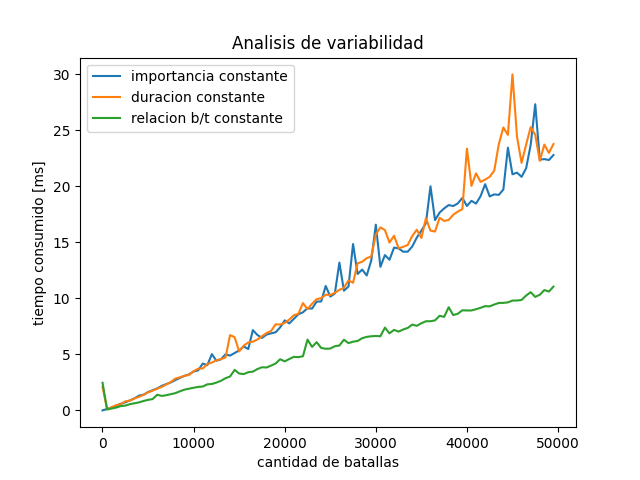
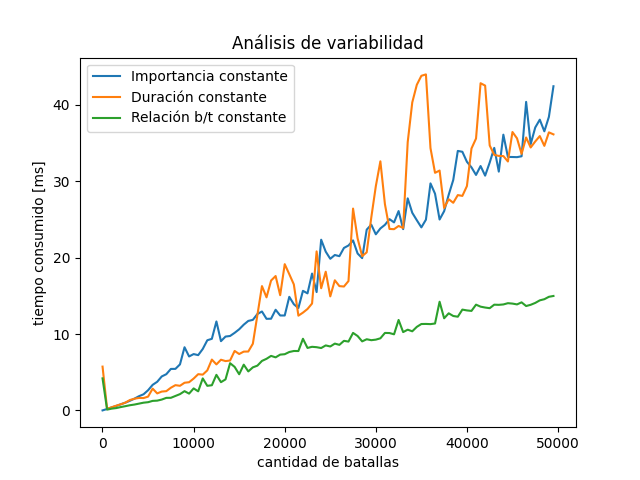
corrijo detalles 2do grafico

diff --git a/plot_variabilidad.py b/plot_variabilidad.py
@@ -1,6 +1,6 @@
 from time import perf_counter
 from random import uniform
-from main import get_orden_optimo, calcular_coeficiente
+from main import get_orden_optimo, calcular_coeficiente_de_impacto
 import matplotlib.pyplot as plt
 
 tamanos_datos = [x for x in range(10, 50000, 500)]
@@ -10,20 +10,20 @@ tiempos_relacion_cte = []
 
 for n in tamanos_datos:
     batallas = [(uniform(1, 1000), 1) for _ in range(n)]
-    start = perf_counter()
+    inicio = perf_counter()
     solucion = get_orden_optimo(batallas)
-    calcular_coeficiente(solucion)
+    calcular_coeficiente_de_impacto(solucion)
     fin = perf_counter()
-    tiempo_ms = (fin - start)*1000
+    tiempo_ms = (fin - inicio)*1000
     tiempos_importancia_cte.append(tiempo_ms)
 
 for n in tamanos_datos:
     batallas = [(1, uniform(0, 1000)) for _ in range(n)]
-    start = perf_counter()
+    inicio = perf_counter()
     solucion = get_orden_optimo(batallas)
-    calcular_coeficiente(solucion)
+    calcular_coeficiente_de_impacto(solucion)
     fin = perf_counter()
-    tiempo_ms = (fin - start)*1000
+    tiempo_ms = (fin - inicio)*1000
     tiempos_duracion_cte.append(tiempo_ms)
 
 for n in tamanos_datos:
@@ -33,19 +33,19 @@ for n in tamanos_datos:
         b = 2*t
         batallas.append((t, b))
 
-    start = perf_counter()
+    inicio = perf_counter()
     solucion = get_orden_optimo(batallas)
-    calcular_coeficiente(solucion)
+    calcular_coeficiente_de_impacto(solucion)
     fin = perf_counter()
-    tiempo_ms = (fin - start)*1000
+    tiempo_ms = (fin - inicio)*1000
     tiempos_relacion_cte.append(tiempo_ms)
 
-plt.title("Analisis de variabilidad")
+plt.title("Análisis de variabilidad")
 plt.xlabel("cantidad de batallas")
 plt.ylabel("tiempo consumido [ms]")
-plt.plot(tamanos_datos, tiempos_importancia_cte, label='importancia constante')
-plt.plot(tamanos_datos, tiempos_duracion_cte, label='duracion constante')
-plt.plot(tamanos_datos, tiempos_relacion_cte, label='relacion b/t constante')
+plt.plot(tamanos_datos, tiempos_importancia_cte, label='Importancia constante')
+plt.plot(tamanos_datos, tiempos_duracion_cte, label='Duración constante')
+plt.plot(tamanos_datos, tiempos_relacion_cte, label='Relación b/t constante')
 plt.legend()
 plt.savefig("img/grafico_variabilidad.png")
 plt.show()

diff --git a/plot.py b/plot.py
@@ -8,11 +8,11 @@ tiempos_ejecucion = []
 
 for n in tamanos_datos:
     batallas = [(uniform(1, 1000), uniform(0, 1000)) for _ in range(n)]
-    start = perf_counter()
+    inicio = perf_counter()
     solucion = get_orden_optimo(batallas)
     calcular_coeficiente_de_impacto(solucion)
     fin = perf_counter()
-    tiempo_ms = (fin - start)*1000
+    tiempo_ms = (fin - inicio)*1000
     tiempos_ejecucion.append(tiempo_ms)
 
 plt.title("Tiempo de ejecución en función del tamaño del arreglo")

diff --git a/informe.md b/informe.md
@@ -14,6 +14,7 @@
     - [Misma relación $b\_{i}/t\_{i}$ para toda batalla $i$](#misma-relación-b_it_i-para-toda-batalla-i)
 - [Casos de prueba](#casos-de-prueba)
 - [Mediciones](#mediciones)
+- [Conclusiones](#conclusiones)
 
 
 # Objetivo
@@ -229,8 +230,11 @@ Para la primer medición se fueron generando muestras aleatorias de tamaño $n$,
 
 Si bien es no es tan sencillo de notar, se puede observar que el gráfico no tiene una tendencia lineal, en especial al probar con muestras más grandes.
 
-Para el siguiente gráfico se repitió la experiencia anterior para los casos mencionados en el [análisis de variabilidad](#análisis-variabilidad-de-y).
+Para el siguiente gráfico se repitió la experiencia anterior para los casos mencionados en el [análisis de variabilidad de $b_{i}$ y $t_{i}$](#análisis-variabilidad-de-y).
 
 ![Gráfico variabilidad](img/grafico_variabilidad.png "Gráfico variabilidad")
 
 Como se puede ver en este gráfico, la complejidad del algoritmo no tiene ningún cambio notable al tratar casos donde se mantiene constante una variable del problema. Sin embargo, se puede notar a simple vista la mejora en los tiempos del algoritmo al tratarse de casos en donde no hay inversiones, apreciando una tendencia lineal.
+
+
+# Conclusiones
